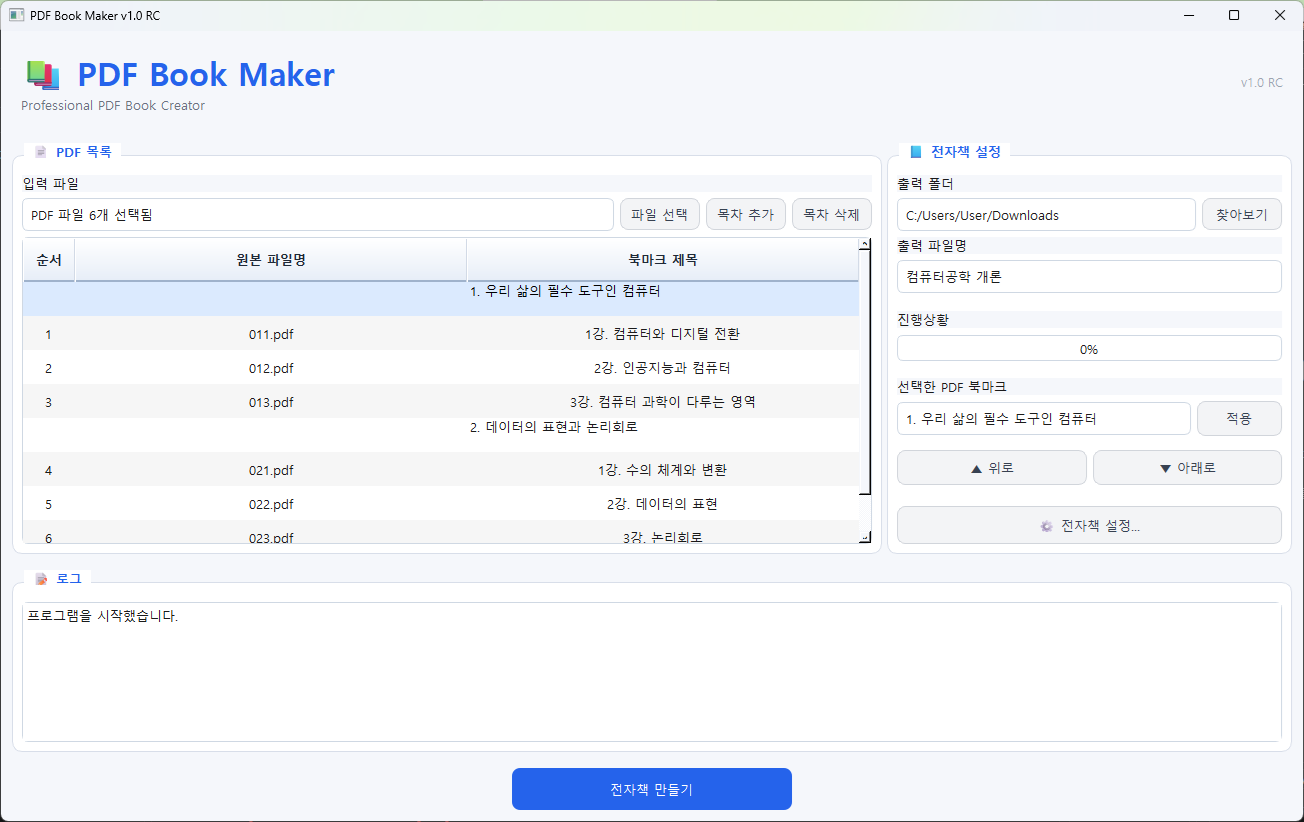
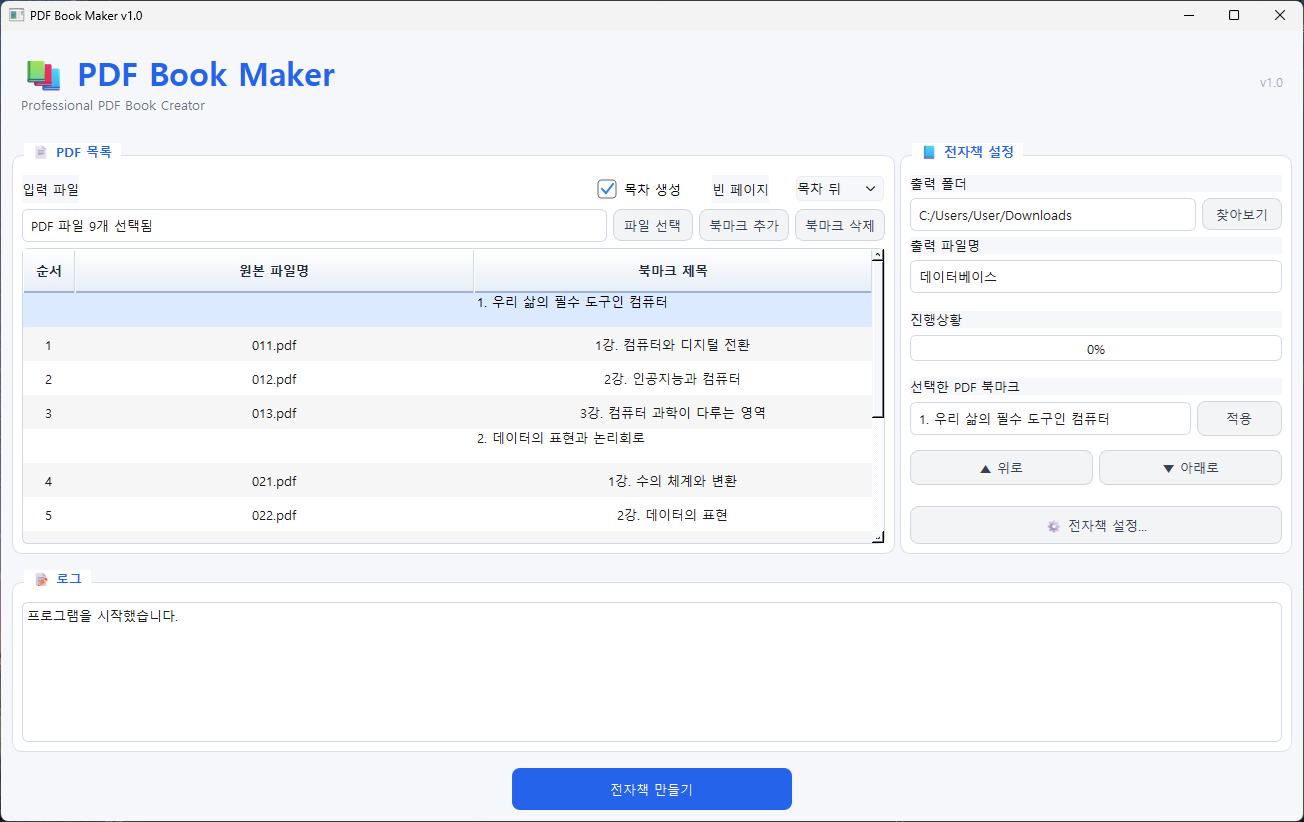
Update v1.0 version labels and screenshot

diff --git a/ui_main.py b/ui_main.py
@@ -38,7 +38,7 @@ class MainWindow(QWidget):
         # 창 설정
         # ==========================
 
-        self.setWindowTitle("PDF Book Maker v1.0 RC")
+        self.setWindowTitle("PDF Book Maker v1.0")
         self.resize(1200, 800)
 
         # 프로그램 설정 저장
@@ -79,7 +79,7 @@ class MainWindow(QWidget):
         background:transparent;
         """)
 
-        version = QLabel("v1.0 RC")
+        version = QLabel("v1.0")
         version.setStyleSheet("""
         color:#9ca3af;
         font-size:9pt;
